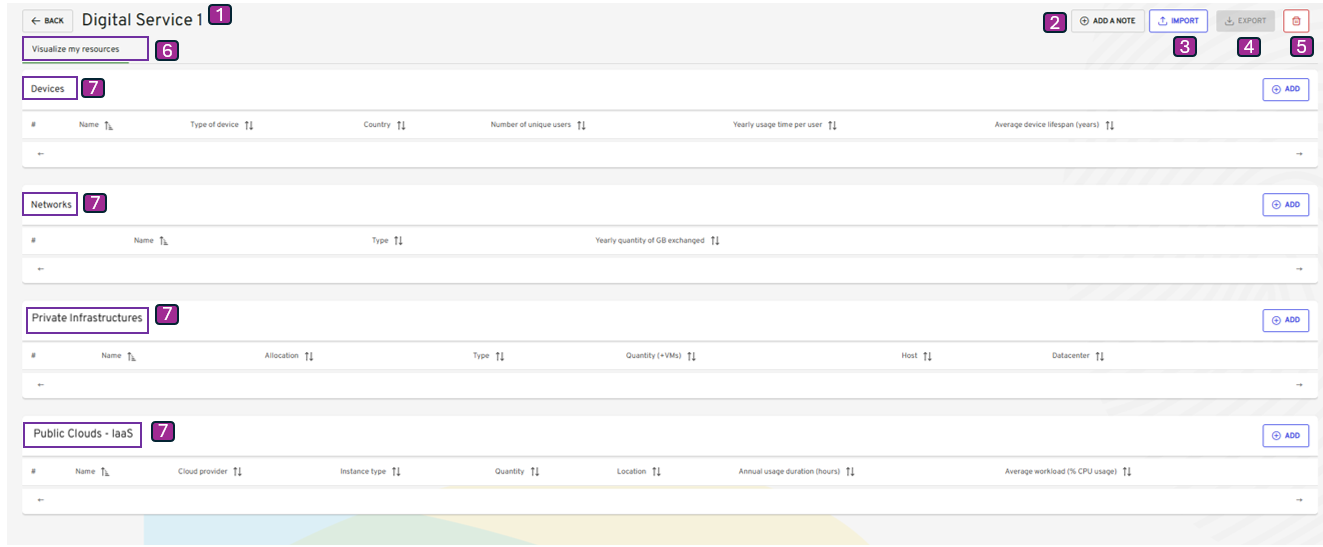
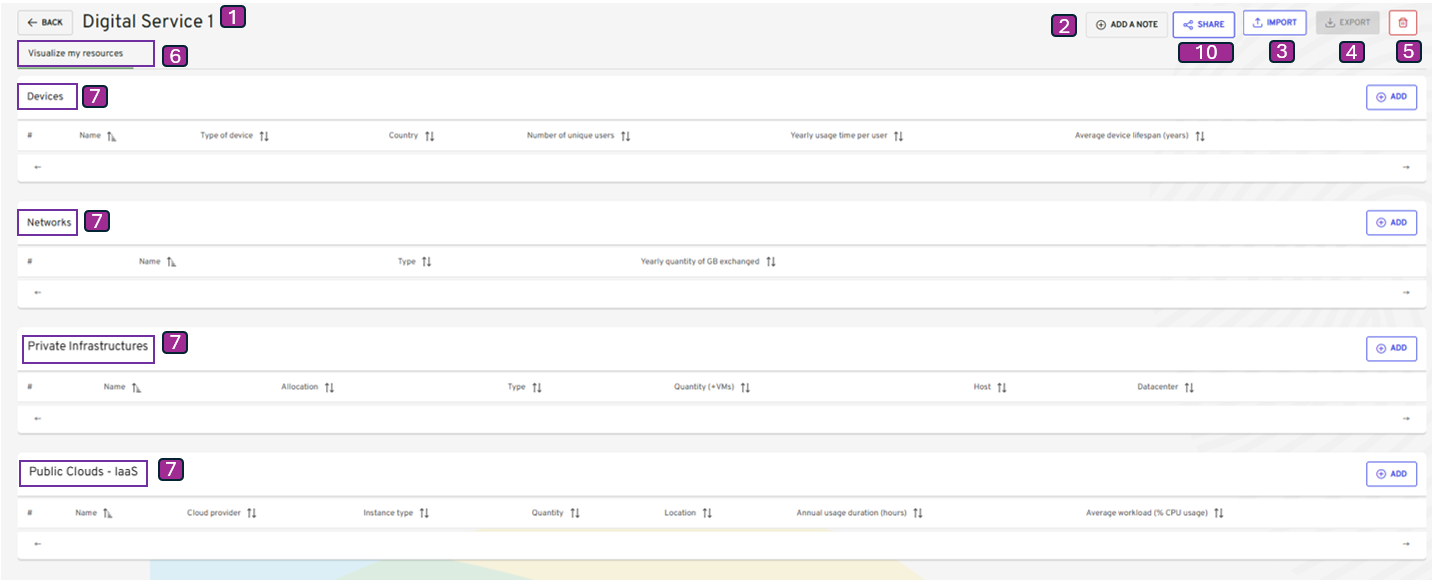
feat(1596): update doc - share a digital service

diff --git a/services/documentation/content/2-functional-documentation/use_cases/uc_digital_services/uc2_create_visualize_digital_service.md b/services/documentation/content/2-functional-documentation/use_cases/uc_digital_services/uc2_create_visualize_digital_service.md
@@ -52,18 +52,19 @@ Step9 -->|Click on Add|Step10[Add Cloud Services view]
 
 {{% expand title="Show the behavior detail" expanded="false" center="true"%}}
 
-| Reference | Group       | Elements                                                  | Type   | Description                                                                                                                                                                                                                                                                                                                                                                                  |
-|-----------|-------------|-----------------------------------------------------------|--------|----------------------------------------------------------------------------------------------------------------------------------------------------------------------------------------------------------------------------------------------------------------------------------------------------------------------------------------------------------------------------------------------|
-|           | Page Header |                                                           | group  |                                                                                                                                                                                                                                                                                                                                                                                              |
-| 1         |             | Digital Service name                                      | label  | <li><u>_initialization rules_</u>: The name of the Digital Service selected for which the user want to visualize footprint.                                                                                                                                                                                                                                                                  |
-| 2         |             | Add a note                                                | button |                                                                                                                                                                                                                                                                                                                                                                                              |
-| 3         |             | Import                                                    | button | Click to import the cloud services and private Infrastructure using files [2.3.3.2. Add Private Infrastructure by importing files](uc3_add_visualize_equipments%2Fuc3_add_visualize_noncloud-servers%2Fimport_nonCloud_servers_via_button.md),  [2.3.4.2. Add Public Cloud - IaaS  by importing files](uc3_add_visualize_equipments%2Fuc3_add_visualize_cloud_services%2Fimport_cloud_services_via_button.md) |
-| 4         |             | Export                                                    | button | Data can be exported at any time after atleast first calculation is done. Details of the behaviour is described in [2.6 Export ](./uc6_export_digital_service.md).                                                                                                                                                                                                                           |
-| 5         |             | Delete                                                    | button | Details of the behaviour is described in [2.7. Delete digital service](uc7_delete_digital_service.md).                                                                                                                                                                                                                                                                                       |
-| 6         | Tab         | Visualize my Resources                                    | tab    | The Terminals, networks, private Infrastructure and cloud Services                                                                                                                                                                                                                                                                                                                                |
-| 7         | Tables      | Terminals / Networks / Private Infrastructures / Public Cloud - IaaS  | group  | <li><u>_initialization rules_</u>: 4 tables are available : Terminals / Networks / Private Infrastructures / Public Cloud - IaaS . <br>Details of the behaviour is described in [2.3. Add or Visualize equipments](uc3_add_visualize_equipments/_index).                                                                                                                                                 |
-| 8         |             | Calculate my Impact                                       | button | Details of the behaviour is described in [2.4. Launch estimation](uc4_launch_estimation.md).                                                                                                                                                                                                                                                                                                 |
-| 9         | Tab         | Visualize my results                                      | tab    | Details of the behaviour is described in [2.5. Visualize digital service's footprint](uc5_visualize_footprint/_index.md).                                                                                                                                                                                                                                                                    |
+| Reference | Group       | Elements                                                             | Type   | Description                                                                                                                                                                                                                                                                                                                                                                                                   |
+|-----------|-------------|----------------------------------------------------------------------|--------|---------------------------------------------------------------------------------------------------------------------------------------------------------------------------------------------------------------------------------------------------------------------------------------------------------------------------------------------------------------------------------------------------------------|
+|           | Page Header |                                                                      | group  |                                                                                                                                                                                                                                                                                                                                                                                                               |
+| 1         |             | Digital Service name                                                 | label  | <li><u>_initialization rules_</u>: The name of the Digital Service selected for which the user want to visualize footprint.                                                                                                                                                                                                                                                                                   |
+| 2         |             | Add a note                                                           | button |                                                                                                                                                                                                                                                                                                                                                                                                               |
+| 3         |             | Import                                                               | button | Click to import the cloud services and private Infrastructure using files [2.3.3.2. Add Private Infrastructure by importing files](uc3_add_visualize_equipments%2Fuc3_add_visualize_noncloud-servers%2Fimport_nonCloud_servers_via_button.md),  [2.3.4.2. Add Public Cloud - IaaS  by importing files](uc3_add_visualize_equipments%2Fuc3_add_visualize_cloud_services%2Fimport_cloud_services_via_button.md) |
+| 4         |             | Export                                                               | button | Data can be exported at any time after atleast first calculation is done. Details of the behaviour is described in [2.6 Export ](./uc6_export_digital_service.md).                                                                                                                                                                                                                                            |
+| 5         |             | Delete                                                               | button | Details of the behaviour is described in [2.7. Delete digital service](uc7_delete_digital_service.md).                                                                                                                                                                                                                                                                                                        |
+| 6         | Tab         | Visualize my Resources                                               | tab    | The Terminals, networks, private Infrastructure and cloud Services                                                                                                                                                                                                                                                                                                                                            |
+| 7         | Tables      | Terminals / Networks / Private Infrastructures / Public Cloud - IaaS | group  | <li><u>_initialization rules_</u>: 4 tables are available : Terminals / Networks / Private Infrastructures / Public Cloud - IaaS . <br>Details of the behaviour is described in [2.3. Add or Visualize equipments](uc3_add_visualize_equipments/_index).                                                                                                                                                      |
+| 8         |             | Calculate my Impact                                                  | button | Details of the behaviour is described in [2.4. Launch estimation](uc4_launch_estimation.md).                                                                                                                                                                                                                                                                                                                  |
+| 9         | Tab         | Visualize my results                                                 | tab    | Details of the behaviour is described in [2.5. Visualize digital service's footprint](uc5_visualize_footprint/_index.md).                                                                                                                                                                                                                                                                                     |
+| 10        |             | Share/Shared                                                         | button | Click to share a digital service even outside G4it. Details of the behaviour is described in [2.8. Share a digital service](uc8_share_digital_service.md).                                                                                                                                                                                                                                                    |
 
 {{% /expand %}}
 

diff --git a/services/documentation/content/2-functional-documentation/use_cases/uc_digital_services/uc8_share_digital_service.md b/services/documentation/content/2-functional-documentation/use_cases/uc_digital_services/uc8_share_digital_service.md
@@ -1,0 +1,81 @@
+---
+title: "2.8. Share a digital service"
+description: "This use case describes how to share a digital service"
+weight: 80
+mermaid: true
+---
+
+## Table of contents
+
+-   [Table of contents](#table-of-contents)
+-   [Description](#description)
+-   [State Diagram](#state-diagram)
+-   [Global view](#global-view)
+-   [Sequence Diagram](#sequence-diagram)
+
+## Description
+
+This use case enables a project team to share a digital service externally from G4IT, allowing access without requiring a user account.
+The shared digital service will be accessible to the user in read-only view.
+
+**Navigation Path**
+
+-   My Digital Services / Digital Service view / Share button
+
+**Access Conditions**
+
+-   The connected member must have the 'write' role for the digital service module one the selected organization.
+
+## State Diagram
+
+{{< mermaid align="center">}}
+graph TD
+Step1[Digital Service View] --> Decision1{Already Shared?}
+Decision1 -- No --> Step2['Share' button displayed]
+Step2 --> Step3[Click 'Share']
+Step3 --> Step4[Popup opens to copy link]
+Step4 --> Step5[Link copied]
+Step5 --> Step6[Button changes to 'Shared']
+Step6 --> Step7[Share with another user]
+
+    Decision1 -- Yes --> Step8['Shared' button displayed]
+    Step8 --> Step9[Click 'Shared']
+    Step9 --> Step10[Popup opens to copy link]
+    Step10 --> Step11[Link copied]
+    Step11 --> Step12[Share with another user]
+
+
+{{</ mermaid >}}
+
+## Global View
+
+-   'Share' button in the Digital service view :
+    ![uc8_shareDs.png](../images/uc8_shareDs.png)
+
+-   Popup to copy the link:
+    ![uc8_sharePopUp.png](../images/uc8_sharePopUp.png)
+
+-   'Share' button changes to 'Shared' button in the Digital service view :
+    ![uc8_sharedDs.png](../images/uc8_sharedDs.png)
+
+
+
+| Management rules | Title        | Rule description                                                                                                                                                                                                                                                                                                                                                                                                                                                       |
+| ---------------- |--------------| ---------------------------------------------------------------------------------------------------------------------------------------------------------------------------------------------------------------------------------------------------------------------------------------------------------------------------------------------------------------------------------------------------------------------------------------------------------------------- |
+| 1                | Share/Shared | <li><u>_initialization rules_</u>: The button is displayed only if user has the write access. <br><li> |
+
+## Sequence Diagram
+
+{{< mermaid >}}
+sequenceDiagram
+actor RND as Project Team
+participant front as G4IT Front-End
+participant back as G4IT Back-End
+participant DataBase
+
+RND ->> front: Click on "Share/Shared" button
+front ->> back: Share /api/organizations/{organization}/workspaces/{workspace}/digital-services/{digitalServiceUid}/share:
+back -> DataBase: Generate a record in digital_service_shared_link table, with a validation token with expiry date after 60 days
+back ->> front: Return the url
+front ->> RND: PopUp opens with the link
+{{</ mermaid >}}
